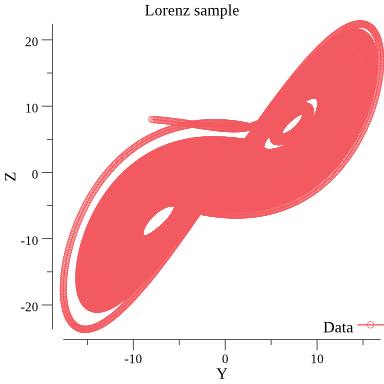
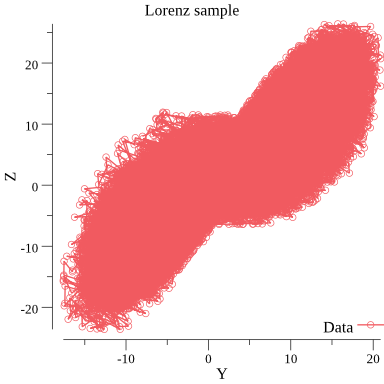
Fixes noise bug

diff --git a/lorenz.go b/lorenz.go
@@ -32,12 +32,12 @@ func createLorenzData() [][]float64 {
 	return y
 }
 
-func addNoise(data [][]float64, value int) (noisyData [][]float64) {
+func addNoise(data [][]float64, value int) [][]float64 {
 	rand.Seed(time.Now().UTC().UnixNano())
 	for i := range data {
-		noisyData[i][1] += float64(rand.Intn(value))
-		noisyData[i][2] += float64(rand.Intn(value))
-		noisyData[i][3] += float64(rand.Intn(value))
+		data[i][1] += float64(rand.Intn(value))
+		data[i][2] += float64(rand.Intn(value))
+		data[i][3] += float64(rand.Intn(value))
 	}
-	return noisyData
+	return data
 }

diff --git a/main.go b/main.go
@@ -6,7 +6,8 @@ import (
 
 func main() {
 	rawLorenz := createLorenzData()
-	formattedLorenz := formatPlotData(rawLorenz)
+	noisyLorenz := addNoise(rawLorenz, 5)
+	formattedLorenz := formatPlotData(noisyLorenz)
 	err := createSVG(formattedLorenz, "Lorenz sample", "Y", "Z")
 	if err != nil {
 		log.Fatalf("Create sample plot failed with error: %v", err)
